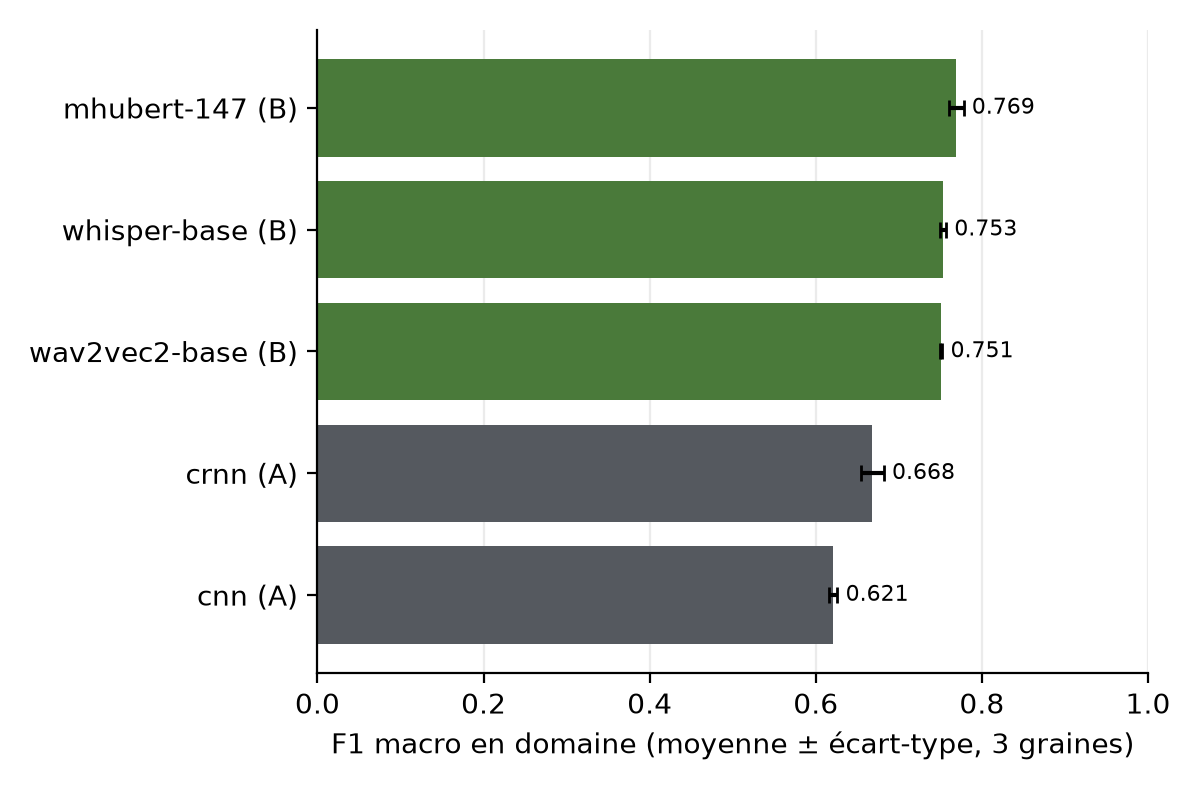
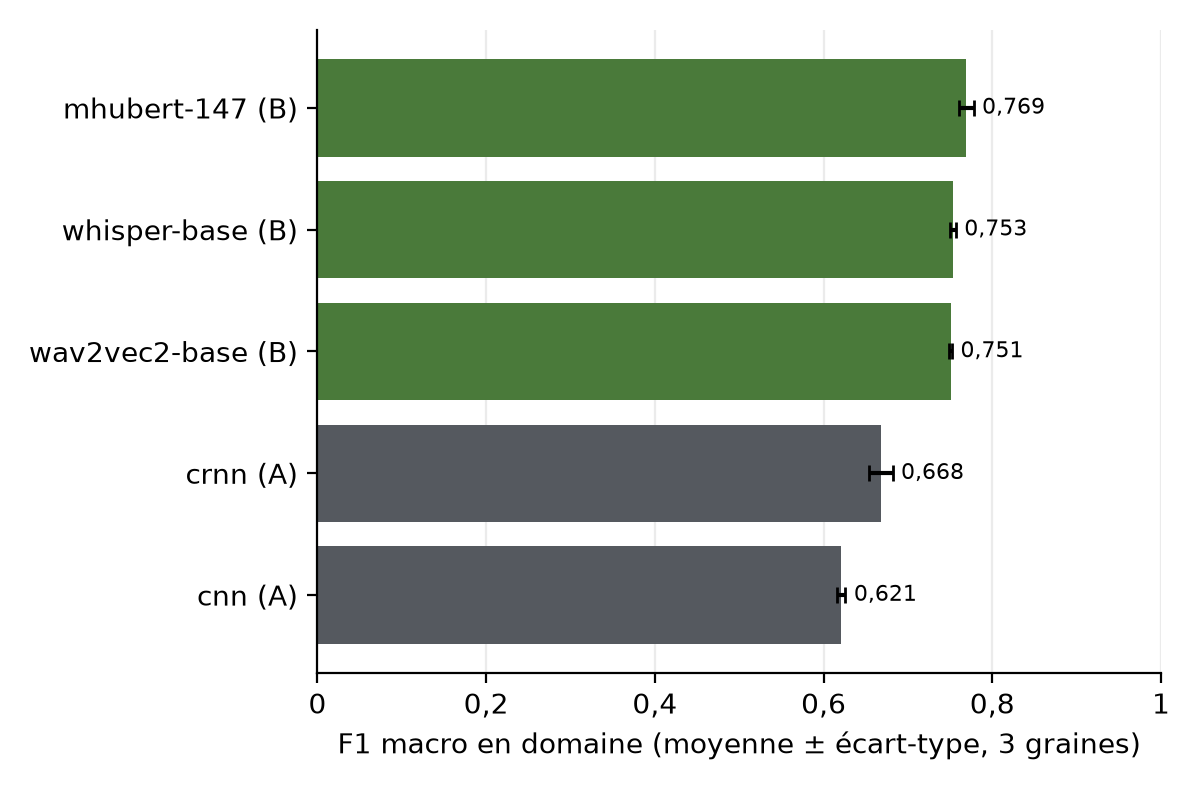
fix(c28): README remis en ordre, code sans lambda, virgule décimale dans les figures
- Section « Figures et tableaux » placée après « Compiler » au lieu de couper son bloc.
- Tri et meilleur modèle par fonctions nommées (best_of_family, best_cafe_model,
  f1_mean_of) à la place des lambdas.
- Figure femmes/hommes : moyenne des 3 graines pour les deux familles ; légende qui ne
  cache plus de barre.
- Graduations et étiquettes des figures à la française (0,25) ; couleurs de la charte
  pour la figure du WER ; tableaux écrits en LF.

diff --git a/training/scripts/make_report_figures.py b/training/scripts/make_report_figures.py
@@ -24,13 +24,18 @@ import matplotlib
 matplotlib.use("Agg")
 import matplotlib.pyplot as plt
 import numpy as np
+from matplotlib.ticker import FuncFormatter, ScalarFormatter
 
 from echolens.config import REPO_ROOT
 from echolens.training.report_assets import (
+    best_cafe_model,
+    best_of_family,
+    decimal_fr,
     emotion_models,
     emotion_table_rows,
     esc50_models,
     esc50_table_rows,
+    f1_mean_of,
     latency_rows,
     read_results,
     render_table,
@@ -55,6 +60,7 @@ MODEL_COLORS = {
     "mhubert-147": "#4a7a3a",
     "whisper-base": "#2b4a21",
 }
+WHISPER_COLORS = {"base": INK_SOFT, "small": BRAND}
 STRENGTH_COLORS = {"none": REFERENCE, "0.5": INK_SOFT, "0.8": BRAND, "1.0": "#b4400f"}
 DPI = 200
 
@@ -67,9 +73,25 @@ def need(name: str) -> Any:
     return content
 
 
+def french_tick(value: float, _position: int) -> str:
+    """Graduation à la française : 0,25 et non 0.25."""
+    text = f"{value:g}"
+    return text.replace(".", ",")
+
+
+def use_french_decimals(figure: Any) -> None:
+    """Virgule décimale sur les axes numériques. Les axes à étiquettes (noms de modèles,
+    classes) gardent leurs étiquettes."""
+    for axis in figure.axes:
+        for scale in [axis.xaxis, axis.yaxis]:
+            if isinstance(scale.get_major_formatter(), ScalarFormatter):
+                scale.set_major_formatter(FuncFormatter(french_tick))
+
+
 def save_figure(figure: Any, name: str) -> Path:
     FIGURES_DIR.mkdir(parents=True, exist_ok=True)
     path = FIGURES_DIR / name
+    use_french_decimals(figure)
     figure.tight_layout()
     figure.savefig(path, dpi=DPI)
     plt.close(figure)
@@ -79,7 +101,8 @@ def save_figure(figure: Any, name: str) -> Path:
 def save_table(name: str, text: str) -> Path:
     TABLES_DIR.mkdir(parents=True, exist_ok=True)
     path = TABLES_DIR / name
-    path.write_text(text, encoding="utf-8")
+    # Fins de ligne LF sur toutes les machines : sinon Windows écrit CRLF et le fichier change.
+    path.write_text(text, encoding="utf-8", newline="\n")
     return path
 
 
@@ -107,7 +130,7 @@ def draw_confusion(
             value = values[row, column]
             color = "white" if value > 0.5 else INK
             axis.text(
-                column, row, f"{value:.2f}", ha="center", va="center", color=color, fontsize=7
+                column, row, decimal_fr(value, 2), ha="center", va="center", color=color, fontsize=7
             )
     figure.colorbar(image, ax=axis, fraction=0.046)
     return save_figure(figure, filename)
@@ -115,7 +138,7 @@ def draw_confusion(
 
 def draw_f1_bars(models: list[dict[str, Any]], xlabel: str, filename: str) -> Path:
     """Barres horizontales de F1 macro (moyenne) avec écart-type, couleur par famille."""
-    ordered = sorted(models, key=lambda model: model["f1_mean"])
+    ordered = sorted(models, key=f1_mean_of)
     figure, axis = plt.subplots(figsize=(6.0, 0.55 * len(ordered) + 1.2))
     for position, model in enumerate(ordered):
         color = FAMILY_COLORS[model["family"]]
@@ -123,7 +146,7 @@ def draw_f1_bars(models: list[dict[str, Any]], xlabel: str, filename: str) -> Pa
         axis.text(
             model["f1_mean"] + model["f1_std"] + 0.01,
             position,
-            f"{model['f1_mean']:.3f}",
+            decimal_fr(model["f1_mean"]),
             va="center",
             fontsize=8,
         )
@@ -132,9 +155,6 @@ def draw_f1_bars(models: list[dict[str, Any]], xlabel: str, filename: str) -> Pa
     axis.set_xlabel(xlabel)
     style_axis(axis)
     return save_figure(figure, filename)
-
-
-# ---------------------------------------------------------------------------- émotions
 
 
 def emotions_assets() -> list[Path]:
@@ -188,21 +208,20 @@ def emotions_assets() -> list[Path]:
     )
     axis.set_xticks(positions, [m["id"] for m in models], rotation=30, ha="right")
     axis.set_ylabel("F1 macro")
-    axis.legend()
+    # Axe jusqu'à 1 et légende sur une ligne en haut : elle ne cache plus aucune barre.
+    axis.set_ylim(0, 1)
+    axis.legend(ncol=2, loc="upper center", frameon=False)
     axis.spines["top"].set_visible(False)
     axis.spines["right"].set_visible(False)
     paths.append(save_figure(figure, "fig_emotions_gender.png"))
     # Figure 4 : matrice de confusion de la meilleure tête de la famille B (celle de la famille A
     # n'est pas dans les JSON : elle reste dans les sorties Kaggle de C12).
-    best_b = max([m for m in models if m["family"] == "B"], key=lambda m: m["f1_mean"])
+    best_b = best_of_family(models, "B")
     title = f"{best_b['id']}, émotions (test en domaine)"
     paths.append(
         draw_confusion(best_b["confusion"], classes, title, "fig_emotions_confusion_famille_B.png")
     )
     return paths
-
-
-# ---------------------------------------------------------------------------- ESC-50
 
 
 def esc50_assets() -> list[Path]:
@@ -223,14 +242,11 @@ def esc50_assets() -> list[Path]:
     paths.append(
         draw_f1_bars(models, "F1 macro ESC-50 (moyenne ± écart-type, 5 folds)", "fig_esc50_f1.png")
     )
-    best_b = max([m for m in models if m["family"] == "B"], key=lambda m: m["f1_mean"])
+    best_b = best_of_family(models, "B")
     title = f"{best_b['id']}, 5 catégories ESC-50"
     filename = f"esc50_{best_b['id']}_confusion_categories.png"
     paths.append(draw_confusion(best_b["categories"], c11["category_names"], title, filename))
     return paths
-
-
-# ---------------------------------------------------------------------------- transcription
 
 
 def transcription_assets() -> list[Path]:
@@ -254,7 +270,9 @@ def transcription_assets() -> list[Path]:
             errors[0].append(100 * (wer["value"] - wer["low"]))
             errors[1].append(100 * (wer["high"] - wer["value"]))
         positions = np.arange(len(corpora)) + index * width
-        axis.bar(positions, values, width, yerr=errors, capsize=3, label=f"Whisper {name}")
+        color = WHISPER_COLORS.get(name, INK)
+        label = f"Whisper {name}"
+        axis.bar(positions, values, width, yerr=errors, capsize=3, label=label, color=color)
     axis.set_xticks(np.arange(len(corpora)) + 0.4 - width / 2, [labels[c] for c in corpora])
     axis.set_ylabel("WER (%), IC 95 %")
     axis.legend()
@@ -262,9 +280,6 @@ def transcription_assets() -> list[Path]:
     axis.spines["right"].set_visible(False)
     paths.append(save_figure(figure, "fig_wer.png"))
     return paths
-
-
-# ---------------------------------------------------------------------------- latence
 
 
 def latency_assets() -> list[Path]:
@@ -298,16 +313,14 @@ def latency_assets() -> list[Path]:
         label="fenêtre de 5 s",
         color=INK_SOFT,
     )
-    axis.axvline(limit, color="#b4400f", linestyle="--", label=f"limite temps réel ({limit})")
+    limit_label = f"limite temps réel ({decimal_fr(limit, 2)})"
+    axis.axvline(limit, color="#b4400f", linestyle="--", label=limit_label)
     axis.set_yticks(positions, [n.removeprefix("echolens-") for n in names], fontsize=8)
     axis.set_xlabel("RTF au 95e centile (temps de calcul / durée du son)")
     axis.legend(fontsize=7)
     style_axis(axis)
     paths.append(save_figure(figure, "fig_latence.png"))
     return paths
-
-
-# ---------------------------------------------------------------------------- VAD
 
 
 def vad_assets() -> list[Path]:
@@ -351,9 +364,6 @@ def vad_assets() -> list[Path]:
     return [save_figure(figure, "fig_vad.png")]
 
 
-# ---------------------------------------------------------------------------- optionnels (C19, C25)
-
-
 def ablation_assets() -> list[Path]:
     """C19 : F1 des émotions et WER selon le SNR, pour chaque force de débruitage (E3)."""
     content = read_results(RESULTS_DIR, "c19_denoising_ablation.json")
@@ -368,7 +378,9 @@ def ablation_assets() -> list[Path]:
     for metric, title, axis in panels:
         for index, strength in enumerate(strengths):
             key = "none" if strength is None else str(strength)
-            values, lows, highs = [], [], []
+            values = []
+            lows = []
+            highs = []
             for snr in snrs:
                 cell = f"{key}|{'clean' if snr is None else snr}"
                 value, low, high = content["cells"][cell][metric]
@@ -430,12 +442,11 @@ def cafe_assets() -> list[Path]:
     axis.spines["right"].set_visible(False)
     paths = [save_figure(figure, "fig_cafe_f1.png")]
     for family in ["A", "B"]:
-        in_family = {n: models[n] for n in names if models[n]["family"] == family}
-        best = max(in_family, key=lambda n: in_family[n]["macro_f1"])
-        title = f"{best} sur CaFE (F1 macro {in_family[best]['macro_f1']:.3f})"
+        best = best_cafe_model(models, family)
+        title = f"{best} sur CaFE (F1 macro {decimal_fr(models[best]['macro_f1'])})"
         paths.append(
             draw_confusion(
-                in_family[best]["confusion"],
+                models[best]["confusion"],
                 content["classes"],
                 title,
                 f"c25_cafe_confusion_famille_{family}.png",

diff --git a/src/echolens/training/report_assets.py b/src/echolens/training/report_assets.py
@@ -21,6 +21,12 @@ def fr(value: float, digits: int = 3) -> str:
     return text.replace(".", "{,}")
 
 
+def decimal_fr(value: float, digits: int = 3) -> str:
+    """Nombre à la française pour une figure (texte simple, hors LaTeX) : 0,754."""
+    text = f"{value:.{digits}f}"
+    return text.replace(".", ",")
+
+
 def fr_pm(mean: float, std: float, digits: int = 3) -> str:
     """« moyenne ± écart-type » en mode mathématique."""
     return f"${fr(mean, digits)} \\pm {fr(std, digits)}$"
@@ -88,14 +94,14 @@ def emotion_models(
                 "ci": intervals[name],
                 "accuracy": summary["accuracy"]["mean"],
                 "per_class": content["seeds"][0]["test"]["f1_per_class"],
-                "by_gender": content["seeds"][0]["test"]["macro_f1_by_gender"],
+                "by_gender": mean_by_gender(summary["macro_f1_by_gender"]),
                 "confusion": None,
             }
         )
     for name, content in c11["models"].items():
         if name in EXCLUDED_B_VARIANTS:
             continue
-        gender = {key: value["mean"] for key, value in content["macro_f1_by_gender"].items()}
+        gender = mean_by_gender(content["macro_f1_by_gender"])
         models.append(
             {
                 "id": name,
@@ -110,6 +116,50 @@ def emotion_models(
             }
         )
     return models
+
+
+def mean_by_gender(by_gender: dict[str, Any]) -> dict[str, float]:
+    """F1 moyen des 3 graines pour chaque genre : {"F": 0,69, "M": 0,55}.
+
+    Les deux familles utilisent la moyenne des graines, pour être comparables sur la figure.
+    """
+    means: dict[str, float] = {}
+    for gender, values in by_gender.items():
+        means[gender] = values["mean"]
+    return means
+
+
+def f1_mean_of(model: dict[str, Any]) -> float:
+    """F1 macro moyen d'un modèle : sert de clé de tri."""
+    return float(model["f1_mean"])
+
+
+def best_of_family(models: list[dict[str, Any]], family: str) -> dict[str, Any]:
+    """Le modèle de la famille qui a le F1 macro moyen le plus haut."""
+    best: dict[str, Any] | None = None
+    for model in models:
+        if model["family"] != family:
+            continue
+        if best is None or model["f1_mean"] > best["f1_mean"]:
+            best = model
+    if best is None:
+        raise ValueError(f"Aucun modèle de la famille {family}")
+    return best
+
+
+def best_cafe_model(models: dict[str, Any], family: str) -> str:
+    """Identifiant du modèle de la famille qui a le F1 macro le plus haut sur CaFE (C25)."""
+    best_id = ""
+    best_f1 = -1.0
+    for model_id, result in models.items():
+        if result["family"] != family:
+            continue
+        if result["macro_f1"] > best_f1:
+            best_f1 = result["macro_f1"]
+            best_id = model_id
+    if best_id == "":
+        raise ValueError(f"Aucun modèle de la famille {family} sur CaFE")
+    return best_id
 
 
 def emotion_table_rows(models: list[dict[str, Any]]) -> list[Row]:

diff --git a/tests/unit/test_report_assets.py b/tests/unit/test_report_assets.py
@@ -1,11 +1,16 @@
 from echolens.training.report_assets import (
+    best_cafe_model,
+    best_of_family,
+    decimal_fr,
     emotion_models,
     emotion_table_rows,
+    f1_mean_of,
     fr,
     fr_interval,
     fr_percent,
     fr_pm,
     latency_rows,
+    mean_by_gender,
     render_table,
     transcription_rows,
 )
@@ -13,8 +18,14 @@ from echolens.training.report_assets import (
 
 def family_a_result(f1: float) -> dict:
     test = {"f1_per_class": [f1] * 6, "macro_f1_by_gender": {"F": f1 + 0.05, "M": f1 - 0.05}}
+    gender = {"F": {"mean": f1 + 0.05}, "M": {"mean": f1 - 0.05}}
+    summary = {
+        "macro_f1": {"mean": f1, "std": 0.01},
+        "accuracy": {"mean": f1},
+        "macro_f1_by_gender": gender,
+    }
     return {
-        "summary": {"macro_f1": {"mean": f1, "std": 0.01}, "accuracy": {"mean": f1}},
+        "summary": summary,
         "seeds": [{"seed": 42, "test": test}],
     }
 
@@ -91,3 +102,27 @@ def test_transcription_and_latency_rows():
         "0{,}173",
         "0{,}173",
     ]
+
+
+def test_best_of_family_and_french_decimals():
+    models = [
+        {"id": "cnn", "family": "A", "f1_mean": 0.62},
+        {"id": "wav2vec2-base", "family": "B", "f1_mean": 0.75},
+        {"id": "mhubert-147", "family": "B", "f1_mean": 0.77},
+    ]
+    assert best_of_family(models, "B")["id"] == "mhubert-147"
+    assert sorted(models, key=f1_mean_of)[0]["id"] == "cnn"
+    assert decimal_fr(0.7536) == "0,754"
+
+
+def test_best_cafe_model_picks_highest_cafe_f1():
+    models = {
+        "cnn": {"family": "A", "macro_f1": 0.30},
+        "crnn": {"family": "A", "macro_f1": 0.35},
+        "whisper-base": {"family": "B", "macro_f1": 0.40},
+    }
+    assert best_cafe_model(models, "A") == "crnn"
+
+
+def test_family_a_gender_uses_mean_of_seeds():
+    assert mean_by_gender({"F": {"mean": 0.69, "std": 0.01}}) == {"F": 0.69}

diff --git a/report/README.md b/report/README.md
@@ -8,6 +8,14 @@ chiffre d'une table cite en commentaire le fichier de `training/results/` d'où 
 Rédaction coordonnée par Lynn ; partie équations par Steve.
 
 ## Compiler
+
+```bash
+cd report
+latexmk -pdf main.tex
+```
+
+Le PDF n'est pas commité. Sur Overleaf, importer le dossier `report/` et compiler `main.tex`.
+
 ## Figures et tableaux
 
 Tout vient d'un seul script (décision E8), à relancer quand un résultat change :
@@ -17,13 +25,6 @@ Tout vient d'un seul script (décision E8), à relancer quand un résultat chang
 Il lit `training/results/*.json` et écrit les figures dans `report/figures/` (`fig_*.png`) et les
 tableaux dans `report/tables/` (`*.tex`). Ne jamais les modifier à la main. Un tableau s'inclut
 avec `\input{tables/<nom>}` dans un environnement `table` (légende et étiquette dans la section).
-
-```bash
-cd report
-latexmk -pdf main.tex
-```
-
-Le PDF n'est pas commité. Sur Overleaf, importer le dossier `report/` et compiler `main.tex`.
 
 ## Plan et répartition
 
